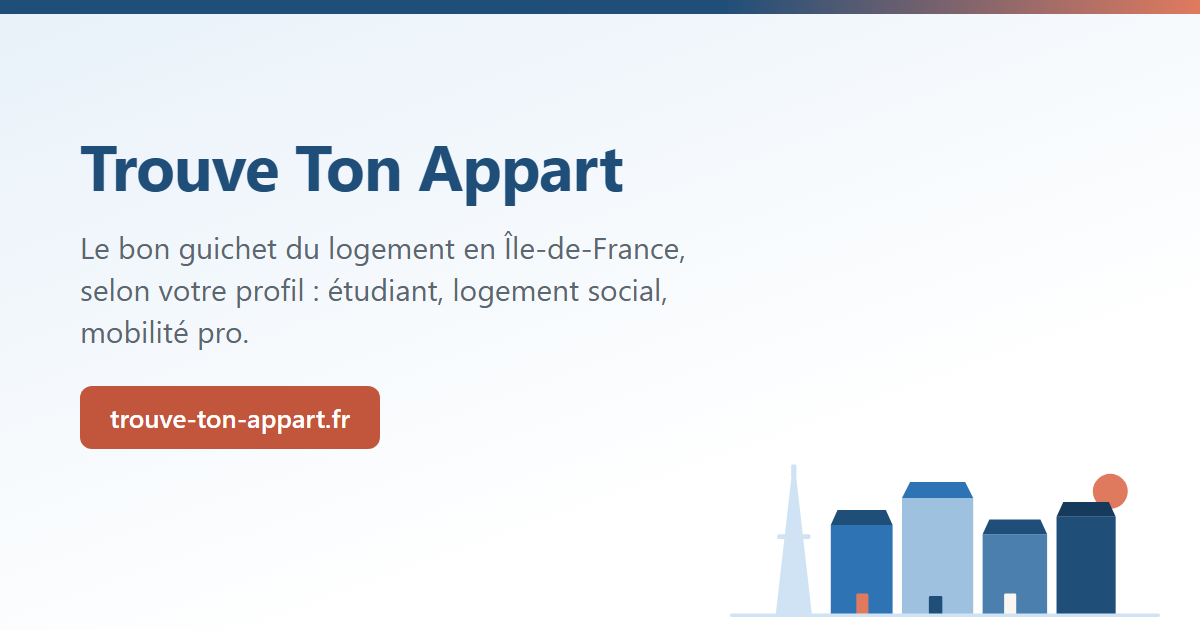
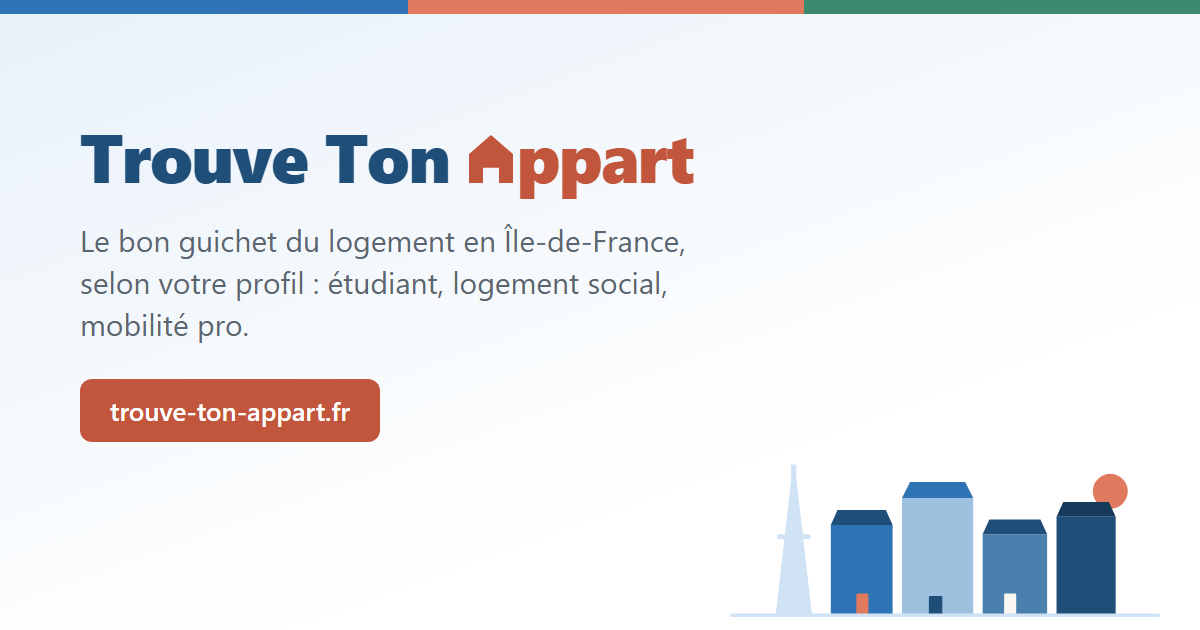
Maison-lettre en « A » de Appart : header + og-image rebrandee
- glyphe maison-A (pignon = chapeau, porte = contrepoinçon) en
  currentColor, hauteur de capitale, dans le wordmark du header
- texte visuel aria-hidden, aria-label conserve sur le lien
- og-image regeneree : meme maison-A terracotta, liseré tricolore,
  titre graisse 800 — coherente avec le header et le favicon

diff --git a/site/build.js b/site/build.js
@@ -156,10 +156,12 @@ const FAVICON = encodeURIComponent(`<svg xmlns="http://www.w3.org/2000/svg" view
 /* Marque du header : tuile « verre » + maison blanche, porte terracotta
  * (même langage que le favicon). La porte s'éclaire au survol. */
 const BRAND_MARK = `<svg class="brand-mark" viewBox="0 0 32 32" xmlns="http://www.w3.org/2000/svg" aria-hidden="true" focusable="false"><rect width="32" height="32" rx="8" fill="#fff" opacity=".13"/><rect x="1" y="1" width="30" height="30" rx="7" fill="none" stroke="rgba(255,255,255,.35)" stroke-width="1.5"/><path d="M16 6.5l10.5 8.4h-3.1v9.6h-5.5v-6.2h-3.8v6.2H8.6v-9.6H5.5z" fill="#fff"/><path d="M19.4 18.3h2.5v6.2h-2.5z" class="brand-door" fill="${PAL.accent}"/></svg>`;
-/* Wordmark : dernier mot du nom en accent. */
+/* Wordmark : dernier mot du nom en accent, son « A » initial remplacé par
+ * une maison-lettre (pignon = chapeau du A, porte = contrepoinçon). */
+const BRAND_A = `<svg class="brand-a" viewBox="0 0 24 25" xmlns="http://www.w3.org/2000/svg" aria-hidden="true" focusable="false"><path d="M12 1l11 9.5V25h-7v-7.6H8V25H1V10.5z" fill="currentColor"/></svg>`;
 const brandWords = SITE.name.split(' ');
 const brandLastWord = brandWords.pop();
-const BRAND_HTML = `${esc(brandWords.join(' '))} <em>${esc(brandLastWord)}</em>`;
+const BRAND_HTML = `${esc(brandWords.join(' '))} <em>${brandLastWord.startsWith('A') ? BRAND_A + esc(brandLastWord.slice(1)) : esc(brandLastWord)}</em>`;
 
 /* ----------------------------- Layout ------------------------------ */
 
@@ -227,7 +229,7 @@ ${ld}
 <body>
 <header class="site-header">
   <div class="container">
-    <a class="brand" href="/" aria-label="${esc(SITE.name)} — accueil">${BRAND_MARK}<span class="brand-text">${BRAND_HTML}<span class="brand-sub">Île-de-France</span></span></a>
+    <a class="brand" href="/" aria-label="${esc(SITE.name)} — accueil">${BRAND_MARK}<span class="brand-text" aria-hidden="true">${BRAND_HTML}<span class="brand-sub">Île-de-France</span></span></a>
     <nav class="main-nav">${nav}<a href="/annuaire/">Annuaire</a><a href="/recherche/">Rechercher</a></nav>
   </div>
 </header>
@@ -1054,6 +1056,7 @@ h3{font-size:1.08rem;line-height:1.35;font-weight:650}
 .brand:hover .brand-door{fill:#ffb39e}
 .brand-text{font-weight:800;font-size:1.22rem;letter-spacing:-.015em;line-height:1.15}
 .brand-text em{font-style:normal;color:#f3a18b}
+.brand-a{height:.78em;width:auto;margin-right:.02em}
 .brand-sub{display:block;font-size:.64rem;font-weight:600;letter-spacing:.16em;text-transform:uppercase;color:#9fc1e0}
 .main-nav{display:flex;flex-wrap:wrap;gap:4px 6px}
 .main-nav a{color:#fff;text-decoration:none;font-size:.93rem;opacity:.92;padding:6px 12px;border-radius:8px;transition:background .15s}

diff --git a/site/generate-og.js b/site/generate-og.js
@@ -34,21 +34,23 @@ const html = `<!doctype html><html><head><meta charset="utf-8"><style>
 *{margin:0;box-sizing:border-box}
 body{width:1200px;height:630px;font-family:"Segoe UI",system-ui,Arial,sans-serif;
 background:linear-gradient(160deg,#e8f1f9 0%,#ffffff 70%);overflow:hidden;position:relative}
-.bar{position:absolute;top:0;left:0;right:0;height:14px;background:linear-gradient(90deg,#1f4e79 60%,#e07a5f)}
-.txt{position:absolute;left:80px;top:130px;max-width:640px}
-h1{font-size:64px;color:#1f4e79;letter-spacing:-1px;line-height:1.1}
+.bar{position:absolute;top:0;left:0;right:0;height:14px;background:linear-gradient(90deg,#2e74b5 0 34%,#e07a5f 34% 67%,#3d8b6e 67%)}
+.txt{position:absolute;left:80px;top:118px;max-width:660px}
+h1{font-size:68px;color:#1f4e79;letter-spacing:-1.5px;line-height:1.1;font-weight:800}
+h1 em{font-style:normal;color:#c2563c}
+h1 svg{height:50px;width:auto;margin-right:2px}
 p{font-size:30px;color:#5b6770;margin-top:26px;line-height:1.4}
 .tag{display:inline-block;margin-top:34px;background:#c2563c;color:#fff;font-size:26px;font-weight:600;
 padding:14px 30px;border-radius:12px}
-svg{position:absolute;right:40px;bottom:0;width:430px}
+.skyline{position:absolute;right:40px;bottom:0;width:430px}
 </style></head><body>
 <div class="bar"></div>
 <div class="txt">
-  <h1>Trouve Ton Appart</h1>
+  <h1>Trouve Ton <em><svg viewBox="0 0 24 25" xmlns="http://www.w3.org/2000/svg"><path d="M12 1l11 9.5V25h-7v-7.6H8V25H1V10.5z" fill="currentColor"/></svg>ppart</em></h1>
   <p>Le bon guichet du logement en Île-de-France, selon votre profil&nbsp;: étudiant, logement social, mobilité pro.</p>
   <span class="tag">trouve-ton-appart.fr</span>
 </div>
-<svg viewBox="0 0 640 260" xmlns="http://www.w3.org/2000/svg">
+<svg class="skyline" viewBox="0 0 640 260" xmlns="http://www.w3.org/2000/svg">
   <circle cx="566" cy="54" r="26" fill="#e07a5f"/>
   <g fill="#cfe3f4"><polygon points="92,28 98,28 122,238 68,238"/><rect x="70" y="118" width="50" height="7" rx="3"/><rect x="78" y="170" width="35" height="6" rx="3"/><rect x="91" y="14" width="8" height="18" rx="2"/></g>
   <g><rect x="150" y="104" width="92" height="134" fill="#2e74b5"/><polygon points="150,104 242,104 232,82 160,82" fill="#1f4e79"/><rect x="188" y="206" width="18" height="32" rx="2" fill="#e07a5f"/></g>
